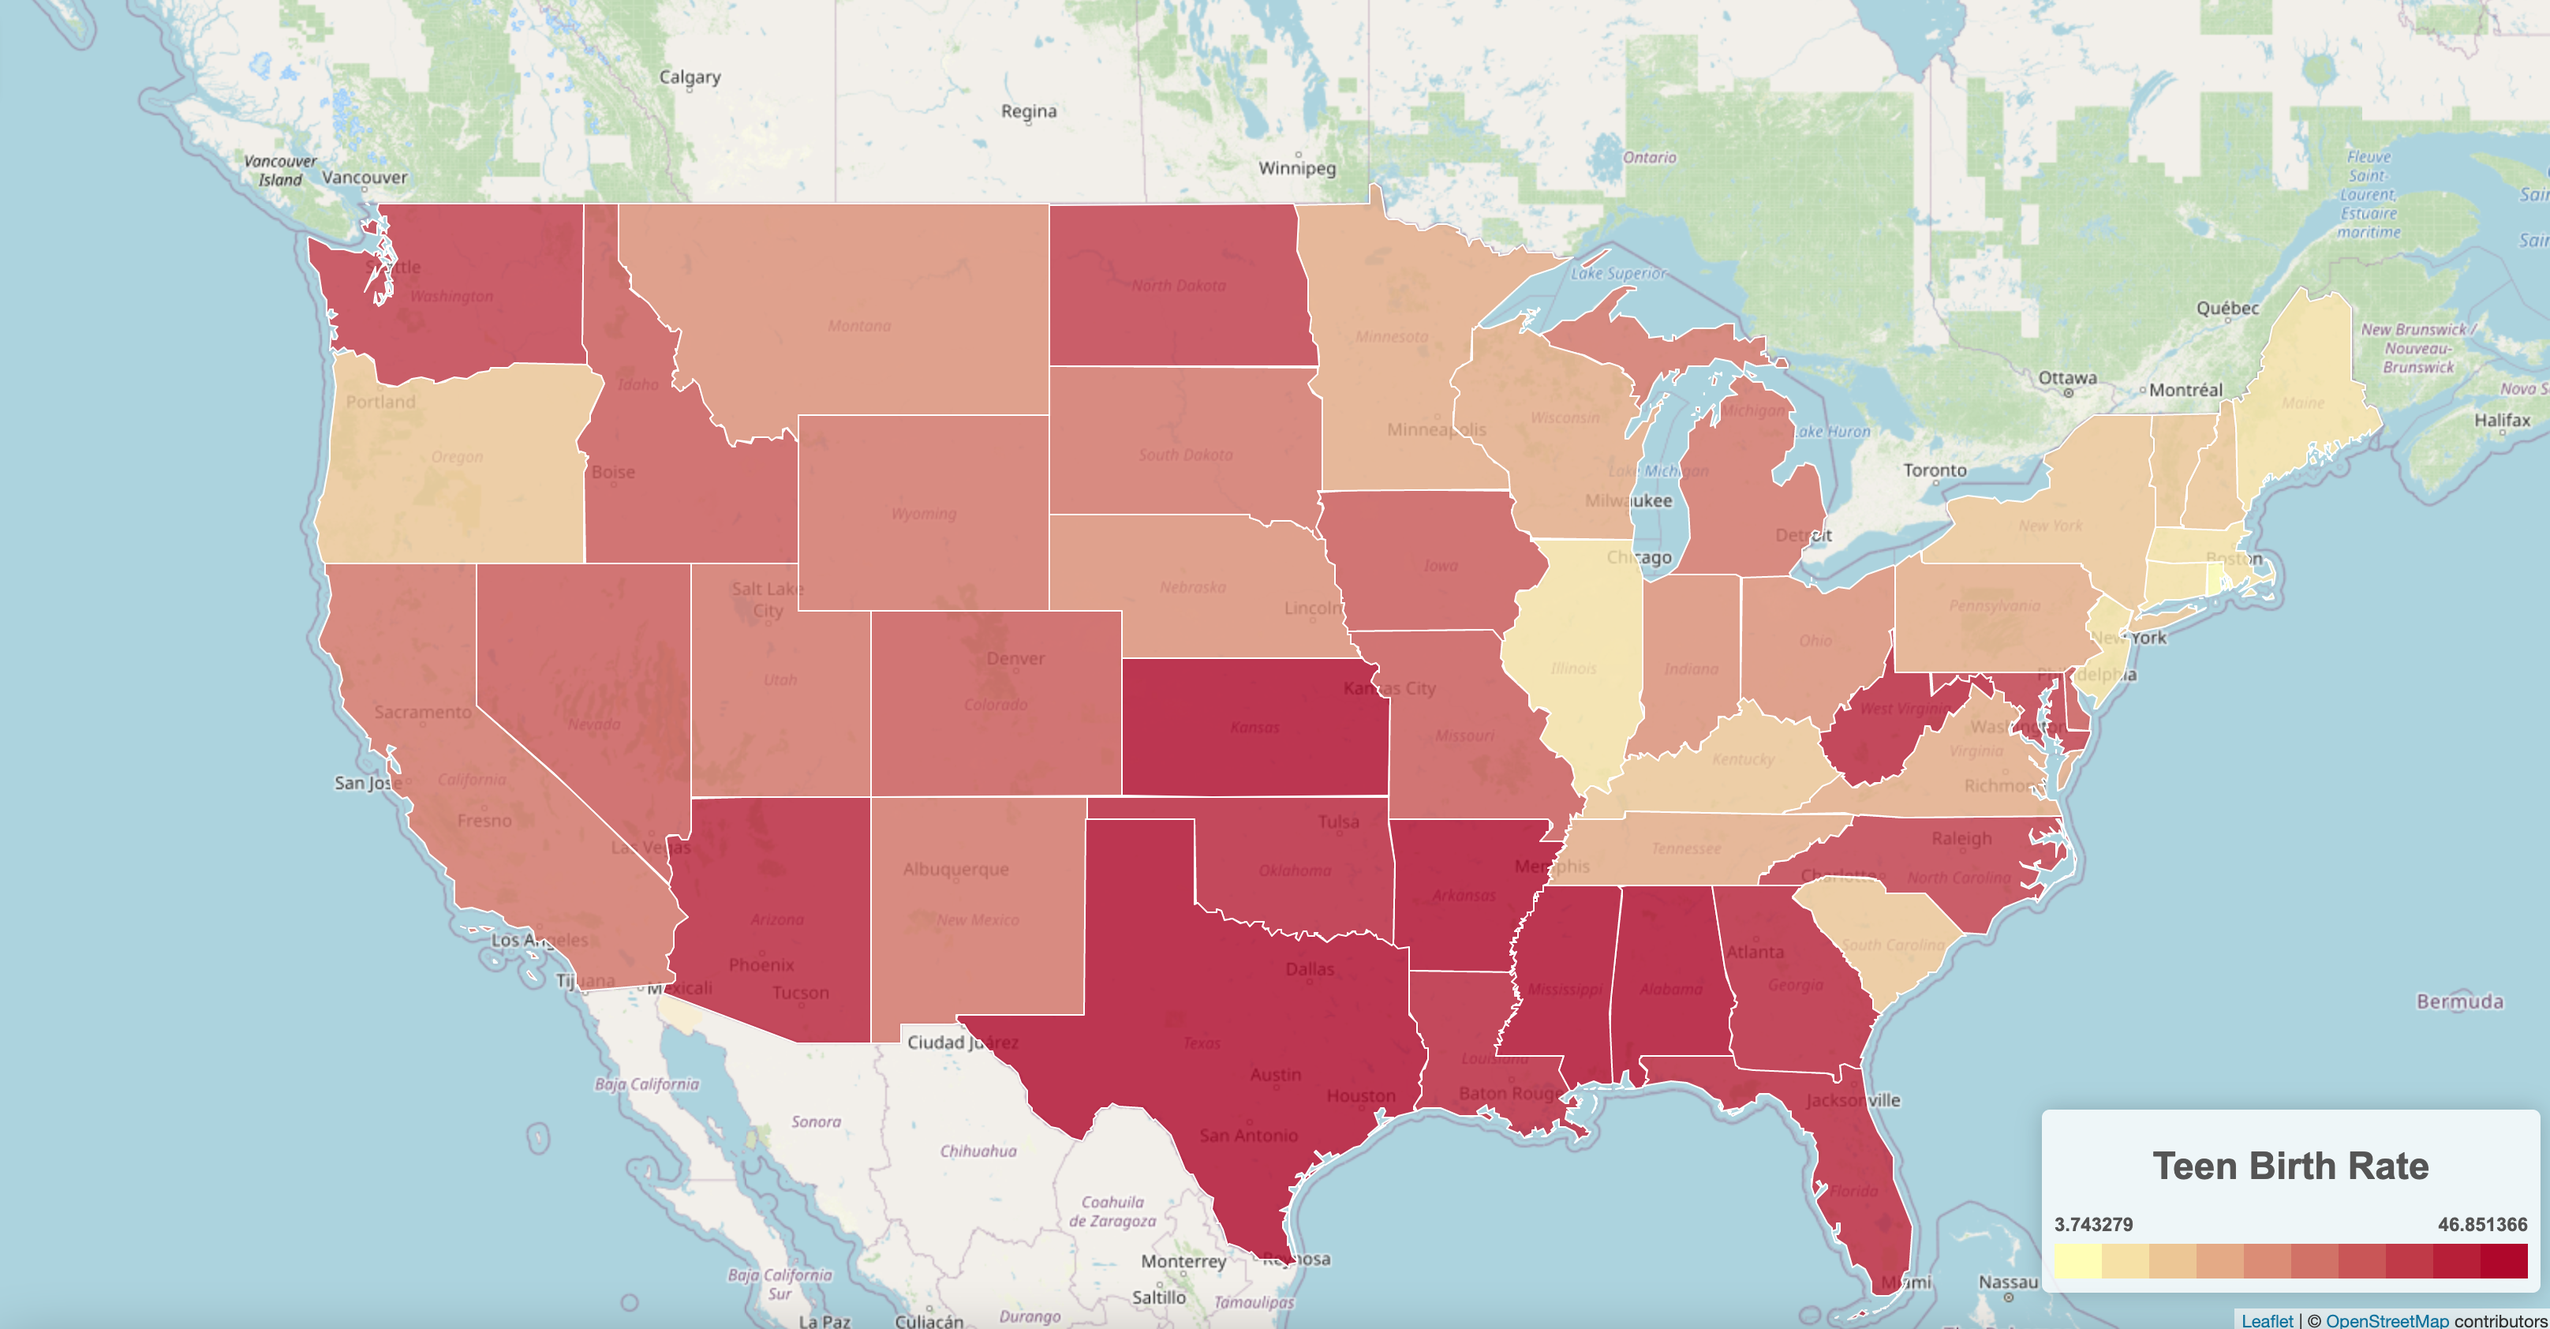
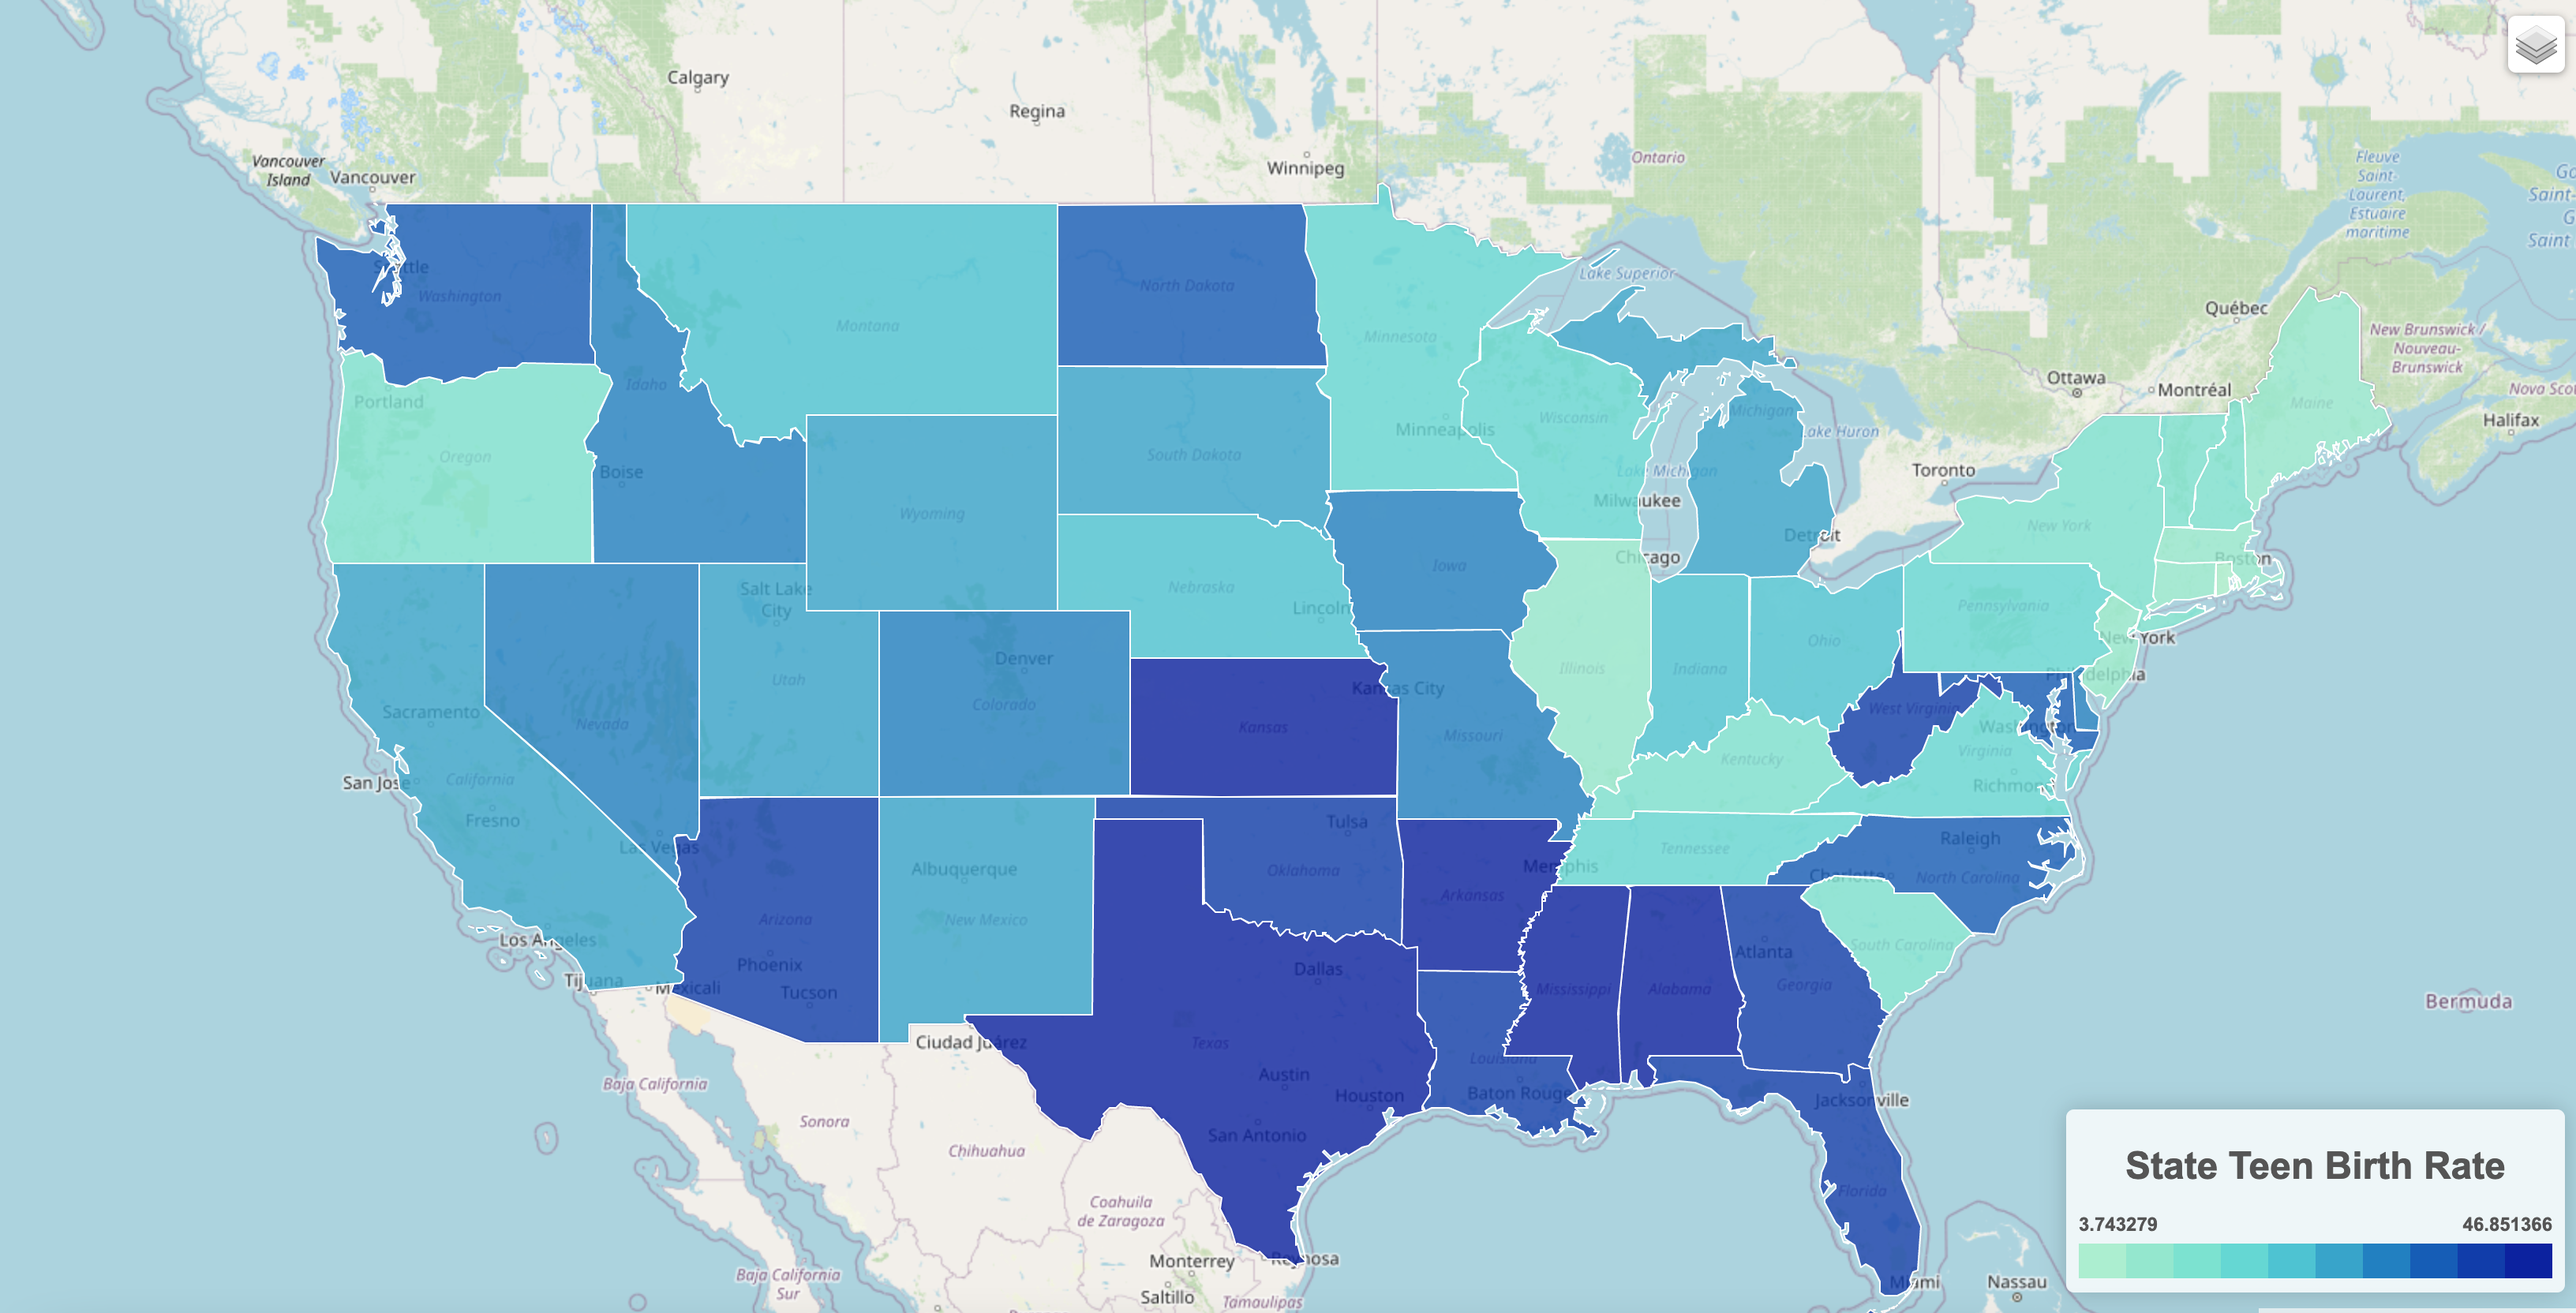
updated styling

diff --git a/templates/dashboard.html b/templates/dashboard.html
@@ -73,7 +73,8 @@
             <div class="dropdown-item" onclick="window.open(href='group_bar')">Group Bar</div>
             <div class="dropdown-item" onclick="window.open(href='line_chart')">Line Chart</div>
             <div class="dropdown-item" onclick="window.open(href='machinelearning')">Calculator</div>
-            <div class="dropdown-item border-bottom pb-3" onclick="window.open(href='state_county_bar_chart')">State County Bar</div>
+            <div class="dropdown-item border-bottom pb-3" onclick="window.open(href='state_county_bar_chart')">State
+              County Bar</div>
           </div>
           <div>
             <a href="aboutdata" class="nav-link py-3 border-bottom" title="Customers" data-bs-toggle="tooltip"
@@ -103,44 +104,47 @@
         <p class="h1">DWP Data Dashboard Overview</p>
       </div>
 
-      <div class="col-lg-6 ht-lg-100 m-4">
+      <div class="col-lg-6 ht-lg-100 mt-4">
         <div class="card card-dashboard-one">
           <div class="card-header">
             <div>
               <h6 class="card-title text-center border-bottom">US Map of Teen Birth Rates</h6>
-              <p class="card-text">This choropleth map visualizes the average teen birth rate per 1,000 females aged 15-19 for each state from 2003 to 2018. This map reflects a concentration of higher birth rates in the South and central areas of the U.S. as well as lower birth rates particularly in the Northeast.</p>
+              <p class="card-text">Highest concentration of birth rates are found in the South and central areas of the
+                U.S. Lowest birth rate concentrations are found in Northeastern areas.</p>
             </div>
           </div><!-- card-header -->
           <div class="card-body">
             <div class="flot-chart-wrapper">
               <img src="../static/images/map.png" class="img-fluid" alt="Map">
             </div>
+            <p class="card-text">This choropleth map visualizes the average teen birth rate per 1,000 females aged 15-19
+              for each state from 2003 to 2018.</p>
           </div><!-- flot-chart-wrapper -->
         </div><!-- card-body -->
       </div><!-- card -->
 
-      <div class="col-lg-6 ht-lg-100 m-4">
+      <div class="col-lg-6 ht-lg-100 mt-4">
         <div class="card card-dashboard-one">
           <div class="card-header">
             <div>
-              <h6 class="card-title text-center border-bottom">County Census Map</h6>
+              <h6 class="card-title mb-2 text-center border-bottom">County Census Map</h6>
               <p class="card-text">Here's some text</p>
             </div>
           </div><!-- card-header -->
           <div class="card-body">
             <div class="flot-chart-wrapper">
-              <img src="../static/images/map.png" class="img-fluid" alt="Map">
+              <img src="../static/images/map1.png" class="img-fluid" alt="Map1">
             </div>
           </div><!-- flot-chart-wrapper -->
         </div><!-- card-body -->
       </div><!-- card -->
 
-      <div class="col-lg-5 ht-lg-100p m-4">
+      <div class="col-lg-6 ht-lg-100p mt-4">
         <div class="card card-dashboard-one">
           <div class="card-header">
             <div>
               <h6 class="card-title text-center">Teen Birthrate by State vs. US Total Line Chart</h6>
-              <p class="card-text">This visualization charts the teen birth rates from 2003 to 2018, separated by ages 15-17 and  18-19. It can be observed from this chart that the birth rate amongst the teens aged 18-19 years is higher than that of the teens aged 15-17 years; we believed this was an important observation as it may provide a counterpoint to a common bias in regards to this topic. Media often focuses on early teen pregnancies, however the data suggests that these young pregnancies are not representative of the majority of teen pregnancies.</p>
+              <p class="card-text">Birth rate amongst teens aged 18-19 years is higher than that of the teens aged 15-17 years.</p>
             </div>
           </div><!-- card-header -->
           <div class="card-body">
@@ -159,42 +163,13 @@
                 </div>
               </div>
             </div><!-- flot-chart-wrapper -->
+            <p class="card-text">This visualization charts the teen birth rates from 2003 to 2018, separated by ages
+              15-17 and 18-19. </p>
           </div><!-- card-body -->
         </div><!-- card -->
       </div><!-- card -->
 
-
-      <div class="col-lg-6 ht-lg-100p m-4">
-        <div class="card card-dashboard-one">
-          <div class="card-header">
-            <div>
-              <h6 class="card-title text-center">Interactive State and County Bar Chart</h6>
-              <p class="card-text"></p>
-            </div>
-          </div><!-- card-header -->
-          <div class="card-body">
-            <div class="flot-chart-wrapper m-2">
-              <canvas id="stateChart"></canvas>
-              <br>
-              <div class="row">
-                <div class="col-3">
-                  <button type="button" class="btn btn-secondary" id="clear_bars">Clear States</button>
-                </div>
-                <div class="col-3">
-                  <button type="button" class="btn btn-secondary" id="add_state_bars">Add State</button>
-                </div>
-                <div class="col-3">
-                  <input class="form-control" type="text" id="state_input_bars" placeholder="Illinois">
-                </div>
-              </div>
-              <canvas id="countyChart"></canvas>
-            </div><!-- flot-chart-wrapper -->
-          </div><!-- card-body -->
-        </div><!-- card -->
-      </div><!-- card -->
-
-
-      <div class="col-lg-5 ht-lg-100p mt-4">
+      <div class="col-lg-6 ht-lg-100p mt-4">
         <div class="card card-dashboard-one">
           <div class="card-header">
             <div>
@@ -210,6 +185,38 @@
         </div><!-- card -->
       </div><!-- col -->
     </div><!-- col -->
+
+    <div class="col-lg-6 ht-lg-100p mt-4">
+      <div class="card card-dashboard-one">
+        <div class="card-header">
+          <div>
+            <h6 class="card-title text-center">Interactive State and County Bar Chart</h6>
+            <p class="card-text"></p>
+          </div>
+        </div><!-- card-header -->
+        <div class="card-body">
+          <div class="flot-chart-wrapper m-2">
+            <canvas id="stateChart"></canvas>
+            <br>
+            <div class="row">
+              <div class="col-3">
+                <button type="button" class="btn btn-secondary" id="clear_bars">Clear States</button>
+              </div>
+              <div class="col-3">
+                <button type="button" class="btn btn-secondary" id="add_state_bars">Add State</button>
+              </div>
+              <div class="col-3">
+                <input class="form-control" type="text" id="state_input_bars" placeholder="Illinois">
+              </div>
+            </div>
+            <canvas id="countyChart"></canvas>
+          </div><!-- flot-chart-wrapper -->
+        </div><!-- card-body -->
+      </div><!-- card -->
+    </div><!-- card -->
+
+
+
 
     <footer>
       <div class="container py-2">
@@ -227,7 +234,7 @@
     <script src="https://d3js.org/d3.v5.min.js"></script>
     <script src="https://cdnjs.cloudflare.com/ajax/libs/Chart.js/2.9.3/Chart.bundle.min.js"></script>
     <script src="https://cdn.jsdelivr.net/npm/chartjs-plugin-datalabels"></script>
-    <!-- <script type="text/javascript" src="../static/js/choropleth.js"></script> -->
+    <script type="text/javascript" src="../static/js/choropleth.js"></script>
     <script src="https://cdn.plot.ly/plotly-latest.min.js"></script>
 
     <script type="text/javascript">
@@ -251,7 +258,6 @@
     </script>
 
     <script type="text/javascript" src="../static/js/line_Chart_LH.js"></script>
-    <!-- <script type="text/javascript" src="../static/js/geomap.js"></script> -->
     <script src="../static/js/group_bar.js"></script>
     <script type="text/javascript" src="static/js/state_county_bars_LH.js"></script>
 

diff --git a/static/css/simple-sidebar.css b/static/css/simple-sidebar.css
@@ -1,4 +1,3 @@
-
 .side-navbar {
     position: absolute;
     top: 0;
@@ -70,7 +69,7 @@
     transition: all 0.4s ease 0s;
   }
   
-  .img{
+  .img {
     position: relative;
     max-height: 270px;
     min-height: 270px;
@@ -80,6 +79,7 @@
     padding-left: 70px;
     padding-top: 10px;
   }
+
   #img-p{
     max-height: 270px;
     min-height: 270px;
@@ -117,13 +117,16 @@
   .button {
     color: #66d1d1;
   }
-
-  .card-title {
+.card {
+  border: 1px solid;
+}
+.card-title {
   font-size: 20px;
+  padding: 20px;
   }
 
-  .card-header{
-    background-color: white;
+.card-text{
+  padding: 10px;
   }
   
   .img-text {
